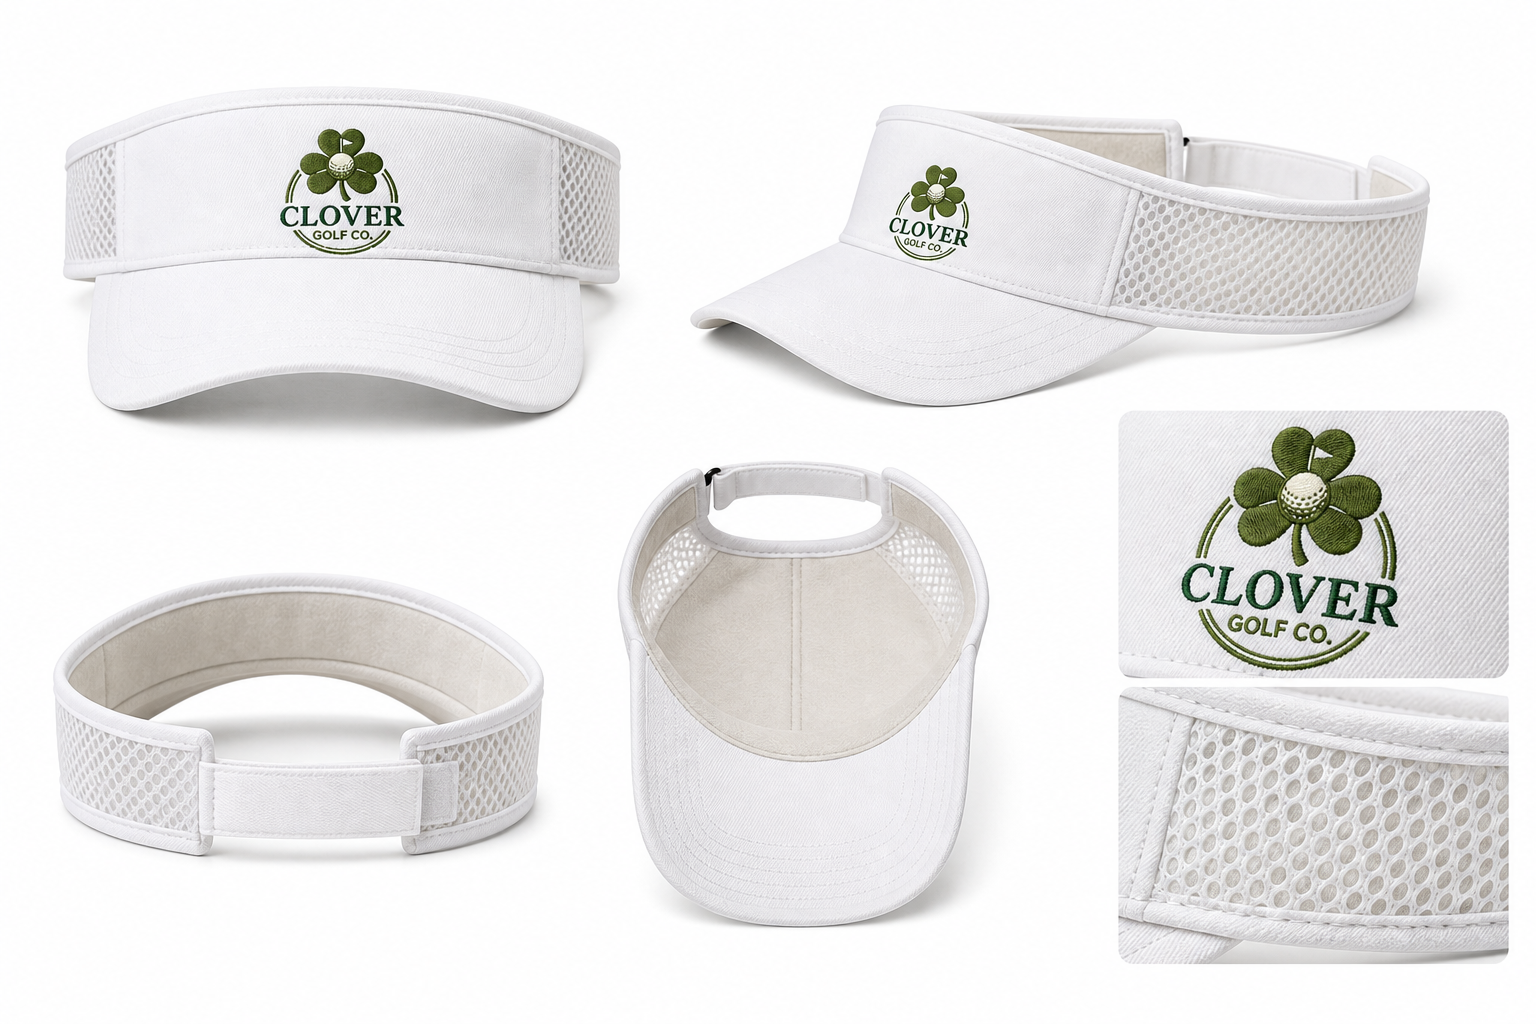
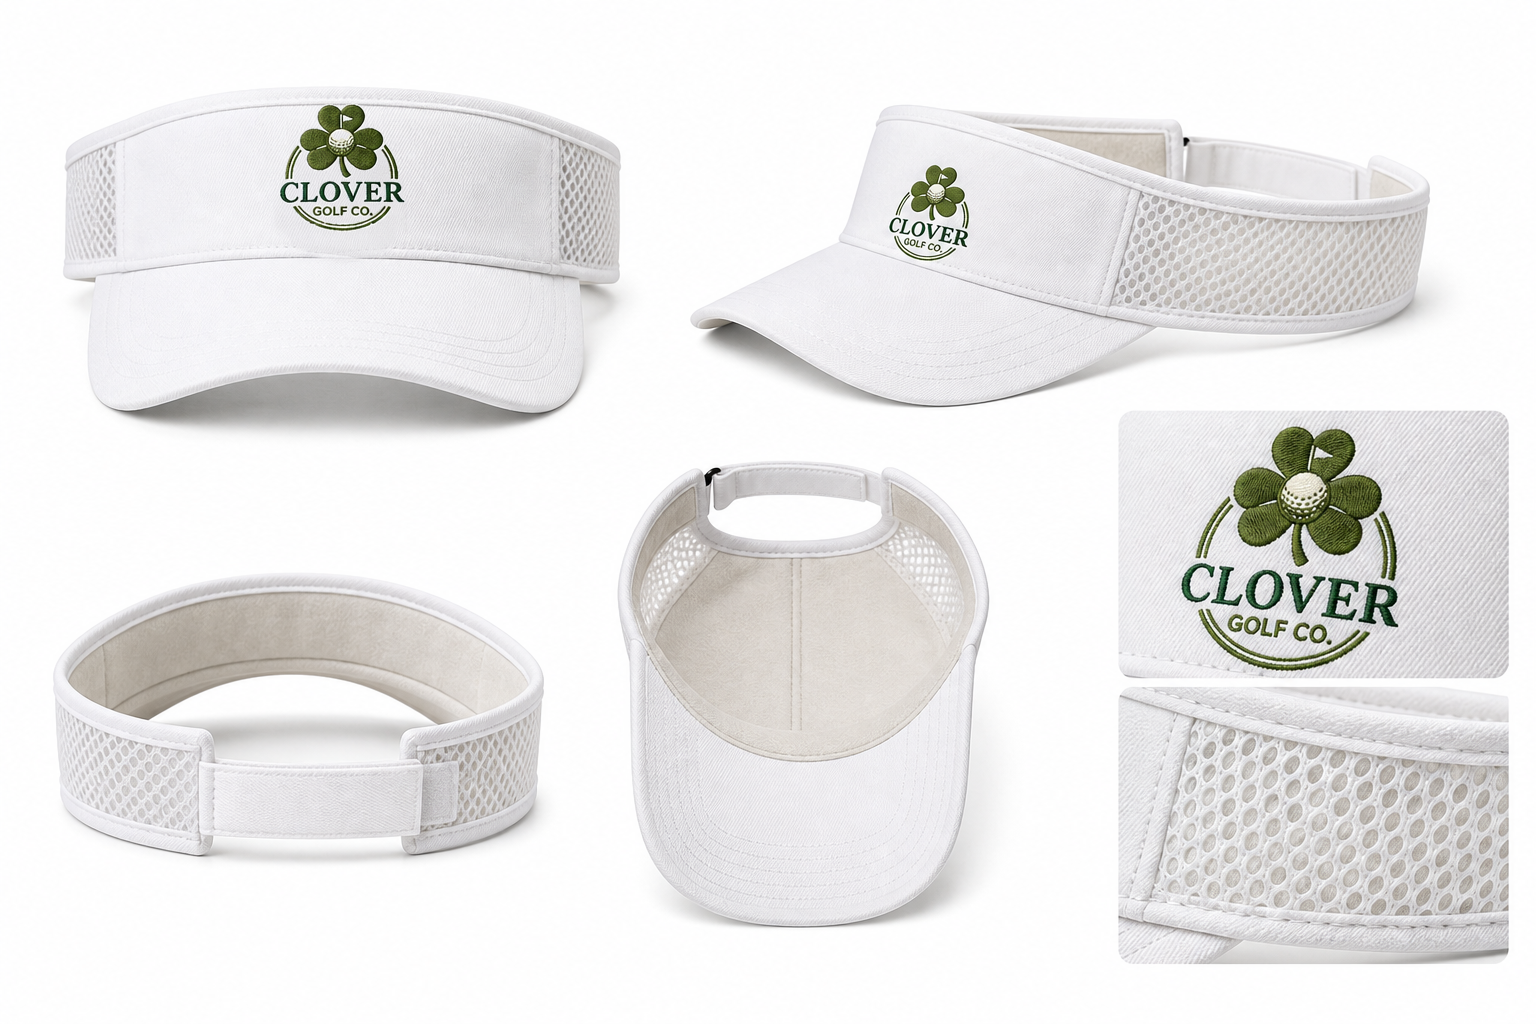
Improve Clover cap images and embroidered branding

Changed region(s): [[0.1562, 0.0938, 0.2812, 0.25]]

diff --git a/index.html b/index.html
@@ -128,7 +128,7 @@
         </div>
         <div class="womens-grid" aria-label="Modelos femeninos Clover Golf Co.">
           <article class="womens-card">
-            <img src="assets/cap-womens-bucket.png?v=4" alt="Bucket hat femenino Clover Golf Co." />
+            <img src="assets/cap-thumb-womens-bucket.png?v=3" alt="Bucket hat femenino Clover Golf Co." />
             <div>
               <span>07</span>
               <h3>Women's Bucket Hat</h3>
@@ -136,7 +136,7 @@
             </div>
           </article>
           <article class="womens-card">
-            <img src="assets/cap-womens-visor.png?v=4" alt="Visor femenino Clover Golf Co." />
+            <img src="assets/cap-thumb-jiuguva-visor.png?v=3" alt="Visor femenino Clover Golf Co." />
             <div>
               <span>08</span>
               <h3>Jiuguva Visor</h3>
@@ -144,7 +144,7 @@
             </div>
           </article>
           <article class="womens-card">
-            <img src="assets/cap-womens-fairway-classic.png?v=4" alt="Gorra verde femenina Clover Golf Co." />
+            <img src="assets/cap-thumb-fairway-classic.png?v=3" alt="Gorra verde femenina Clover Golf Co." />
             <div>
               <span>09</span>
               <h3>Fairway Classic</h3>
@@ -153,7 +153,7 @@
           </article>
           <article class="womens-card">
             <img
-              src="assets/cap-womens-cream-fairway.png?v=4"
+              src="assets/cap-thumb-cream-fairway.png?v=3"
               alt="Gorra crema y verde femenina Clover Golf Co."
             />
             <div>
@@ -259,7 +259,7 @@
               type="button"
               aria-pressed="false"
               data-cap-360-choice
-              data-image="assets/cap-360-jiuguva-visor-production.png?v=2"
+              data-image="assets/cap-360-jiuguva-visor-production.png?v=4"
               data-name="Jiuguva Visor"
             >
               Jiuguva Visor
@@ -325,28 +325,28 @@
           </figure>
           <figure class="lookbook-tile">
             <img
-              src="assets/lookbook-womens-bucket.png?v=3"
+              src="assets/lookbook-womens-bucket-embroidered.png?v=1"
               alt="Mujer usando bucket hat Clover Golf Co. en campo de golf"
             />
             <figcaption>Women's Bucket Hat</figcaption>
           </figure>
           <figure class="lookbook-tile">
             <img
-              src="assets/lookbook-womens-visor.png?v=3"
+              src="assets/lookbook-womens-visor-embroidered.png?v=1"
               alt="Mujer usando visor Clover Golf Co. en campo de golf"
             />
             <figcaption>Jiuguva Visor</figcaption>
           </figure>
           <figure class="lookbook-tile">
             <img
-              src="assets/lookbook-womens-fairway-classic.png?v=2"
+              src="assets/lookbook-womens-fairway-classic-embroidered.png?v=1"
               alt="Mujer usando gorra verde Clover Golf Co. con ropa y bolso de golf de la marca"
             />
             <figcaption>Fairway Classic</figcaption>
           </figure>
           <figure class="lookbook-tile">
             <img
-              src="assets/lookbook-womens-cream-fairway.png?v=2"
+              src="assets/lookbook-womens-cream-fairway-embroidered.png?v=1"
               alt="Mujer usando gorra crema y verde Clover Golf Co. con ropa y bolso de golf de la marca"
             />
             <figcaption>Cream Fairway</figcaption>
@@ -388,63 +388,63 @@
                 <label class="cap-choice">
                   <input name="capStyle" type="radio" value="Signature Leather" required checked />
                   <span class="cap-option">
-                    <img src="assets/cap-signature-leather.png?v=4" alt="Gorra Signature Leather" />
+                    <img src="assets/cap-thumb-signature-leather.png?v=3" alt="Gorra Signature Leather" />
                     <strong>Signature Leather</strong>
                   </span>
                 </label>
                 <label class="cap-choice">
                   <input name="capStyle" type="radio" value="Forest Classic" required />
                   <span class="cap-option">
-                    <img src="assets/cap-forest-classic.png?v=4" alt="Gorra Forest Classic" />
+                    <img src="assets/cap-thumb-forest-classic.png?v=3" alt="Gorra Forest Classic" />
                     <strong>Forest Classic</strong>
                   </span>
                 </label>
                 <label class="cap-choice">
                   <input name="capStyle" type="radio" value="Stripe Course" required />
                   <span class="cap-option">
-                    <img src="assets/cap-stripe-course.png?v=4" alt="Gorra Stripe Course" />
+                    <img src="assets/cap-thumb-stripe-course.png?v=3" alt="Gorra Stripe Course" />
                     <strong>Stripe Course</strong>
                   </span>
                 </label>
                 <label class="cap-choice">
                   <input name="capStyle" type="radio" value="Cream Heritage" required />
                   <span class="cap-option">
-                    <img src="assets/cap-cream-heritage.png?v=4" alt="Gorra Cream Heritage" />
+                    <img src="assets/cap-thumb-cream-heritage.png?v=3" alt="Gorra Cream Heritage" />
                     <strong>Cream Heritage</strong>
                   </span>
                 </label>
                 <label class="cap-choice">
                   <input name="capStyle" type="radio" value="Olive Performance" required />
                   <span class="cap-option">
-                    <img src="assets/cap-olive-performance.png?v=4" alt="Gorra Olive Performance" />
+                    <img src="assets/cap-thumb-olive-performance.png?v=3" alt="Gorra Olive Performance" />
                     <strong>Olive Performance</strong>
                   </span>
                 </label>
                 <label class="cap-choice">
                   <input name="capStyle" type="radio" value="Tour Cream" required />
                   <span class="cap-option">
-                    <img src="assets/cap-tour-cream.png?v=4" alt="Gorra Tour Cream" />
+                    <img src="assets/cap-thumb-tour-cream.png?v=3" alt="Gorra Tour Cream" />
                     <strong>Tour Cream</strong>
                   </span>
                 </label>
                 <label class="cap-choice">
                   <input name="capStyle" type="radio" value="Women's Bucket Hat" required />
                   <span class="cap-option">
-                    <img src="assets/cap-womens-bucket.png?v=4" alt="Bucket hat femenino Clover" />
+                    <img src="assets/cap-thumb-womens-bucket.png?v=3" alt="Bucket hat femenino Clover" />
                     <strong>Women's Bucket Hat</strong>
                   </span>
                 </label>
                 <label class="cap-choice">
                   <input name="capStyle" type="radio" value="Jiuguva Visor" required />
                   <span class="cap-option">
-                    <img src="assets/cap-womens-visor.png?v=4" alt="Visor femenino Clover" />
+                    <img src="assets/cap-thumb-jiuguva-visor.png?v=3" alt="Visor femenino Clover" />
                     <strong>Jiuguva Visor</strong>
                   </span>
                 </label>
                 <label class="cap-choice">
                   <input name="capStyle" type="radio" value="Fairway Classic" required />
                   <span class="cap-option">
-                    <img src="assets/cap-womens-fairway-classic.png?v=4" alt="Gorra verde femenina Clover" />
+                    <img src="assets/cap-thumb-fairway-classic.png?v=3" alt="Gorra verde femenina Clover" />
                     <strong>Fairway Classic</strong>
                   </span>
                 </label>
@@ -452,7 +452,7 @@
                   <input name="capStyle" type="radio" value="Cream Fairway" required />
                   <span class="cap-option">
                     <img
-                      src="assets/cap-womens-cream-fairway.png?v=4"
+                      src="assets/cap-thumb-cream-fairway.png?v=3"
                       alt="Gorra crema y verde femenina Clover"
                     />
                     <strong>Cream Fairway</strong>

diff --git a/script.js b/script.js
@@ -126,16 +126,16 @@ if (isAdminPage) {
   const messageCount = document.querySelector("[data-message-count]");
   const lastMessage = document.querySelector("[data-last-message]");
   const capImagesByStyle = {
-    "Signature Leather": "assets/cap-signature-leather.png?v=4",
-    "Forest Classic": "assets/cap-forest-classic.png?v=4",
-    "Stripe Course": "assets/cap-stripe-course.png?v=4",
-    "Cream Heritage": "assets/cap-cream-heritage.png?v=4",
-    "Olive Performance": "assets/cap-olive-performance.png?v=4",
-    "Tour Cream": "assets/cap-tour-cream.png?v=4",
-    "Women's Bucket Hat": "assets/cap-womens-bucket.png?v=4",
-    "Jiuguva Visor": "assets/cap-womens-visor.png?v=4",
-    "Fairway Classic": "assets/cap-womens-fairway-classic.png?v=4",
-    "Cream Fairway": "assets/cap-womens-cream-fairway.png?v=4",
+    "Signature Leather": "assets/cap-thumb-signature-leather.png?v=3",
+    "Forest Classic": "assets/cap-thumb-forest-classic.png?v=3",
+    "Stripe Course": "assets/cap-thumb-stripe-course.png?v=3",
+    "Cream Heritage": "assets/cap-thumb-cream-heritage.png?v=3",
+    "Olive Performance": "assets/cap-thumb-olive-performance.png?v=3",
+    "Tour Cream": "assets/cap-thumb-tour-cream.png?v=3",
+    "Women's Bucket Hat": "assets/cap-thumb-womens-bucket.png?v=3",
+    "Jiuguva Visor": "assets/cap-thumb-jiuguva-visor.png?v=3",
+    "Fairway Classic": "assets/cap-thumb-fairway-classic.png?v=3",
+    "Cream Fairway": "assets/cap-thumb-cream-fairway.png?v=3",
   };
   const accountState = {
     twoFactorEnabled: false,
@@ -298,7 +298,7 @@ if (isAdminPage) {
 
     const capImage = document.createElement("img");
     const capStyle = message.capStyle || "No especificado";
-    capImage.src = capImagesByStyle[capStyle] || "assets/cap-womens-cream-fairway.png?v=4";
+    capImage.src = capImagesByStyle[capStyle] || "assets/cap-thumb-cream-fairway.png?v=3";
     capImage.alt = `Gorra seleccionada: ${capStyle}`;
 
     const capName = document.createElement("strong");
